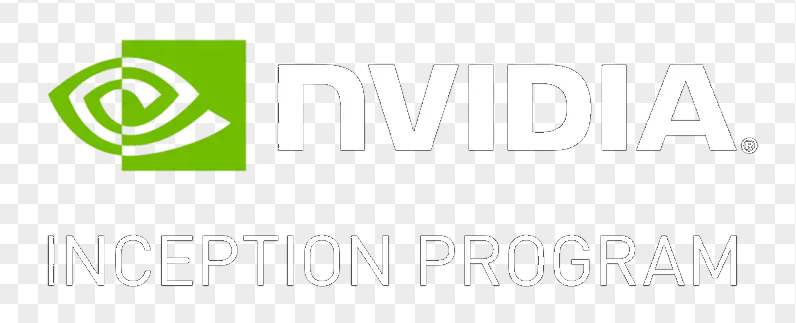
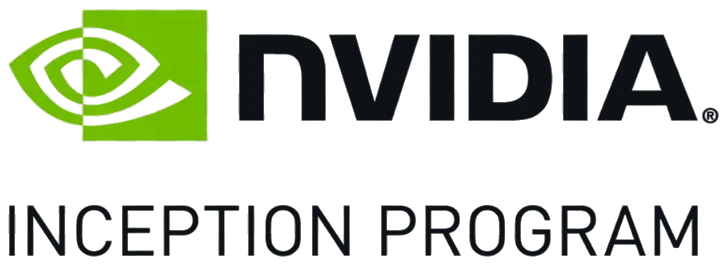
site: NVIDIA Inception badge for light ground
The member lockup was a white wordmark plus a leftover alpha grid,
so on the light footer it painted as a checkerboard. Recolor the
wordmark to ink, drop the matte, keep the green eye.

Changed region(s): [[0.0, 0.0302, 0.9986, 0.5434], [0.0, 0.7245, 0.9684, 0.966]]

diff --git a/site/src/app.css b/site/src/app.css
@@ -479,7 +479,7 @@ footer { border-top: 1px solid var(--border); padding: 3rem 2rem 2.5rem; backgro
 .fcol a:hover { color: var(--accent); }
 .footer-member { max-width: 1080px; margin: 2.5rem auto 0; }
 .footer-member a { display: inline-block; line-height: 0; }
-.footer-member img { width: 140px; height: auto; opacity: 0.55; transition: opacity 0.2s; }
+.footer-member img { width: 140px; height: auto; opacity: 0.72; transition: opacity 0.2s; }
 .footer-member a:hover img, .footer-member a:focus-visible img { opacity: 1; }
 .footer-legal { max-width: 1080px; margin: 2rem auto 0; padding-top: 1.5rem; border-top: 1px solid var(--border); font-size: 0.68rem; color: var(--t3); line-height: 1.6; }
 .footer-legal .tm { margin-top: 0.6rem; }

diff --git a/site/src/lib/components/Footer.svelte b/site/src/lib/components/Footer.svelte
@@ -37,7 +37,7 @@
 
   <div class="footer-member">
     <a href={nvidiaInceptionUrl} target="_blank" rel="noopener noreferrer">
-      <img src="/nvidia-inception.webp" alt="NVIDIA Inception Program member" width="280" height="114" loading="lazy" />
+      <img src="/nvidia-inception.webp" alt="NVIDIA Inception Program member" width="280" height="102" loading="lazy" />
     </a>
   </div>
 
